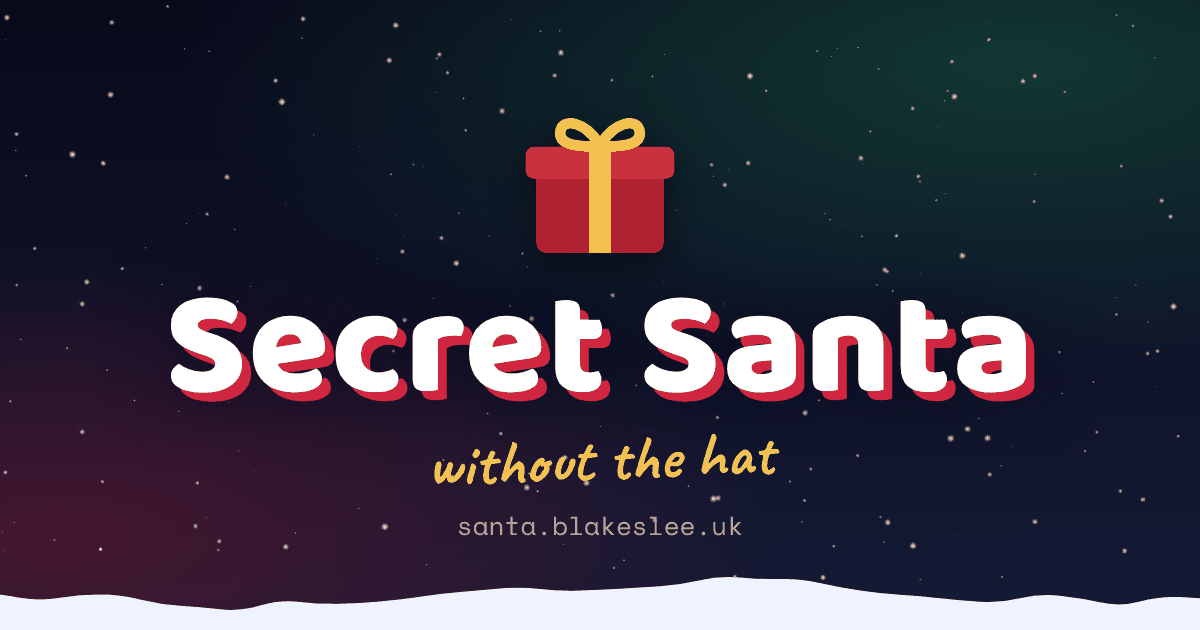
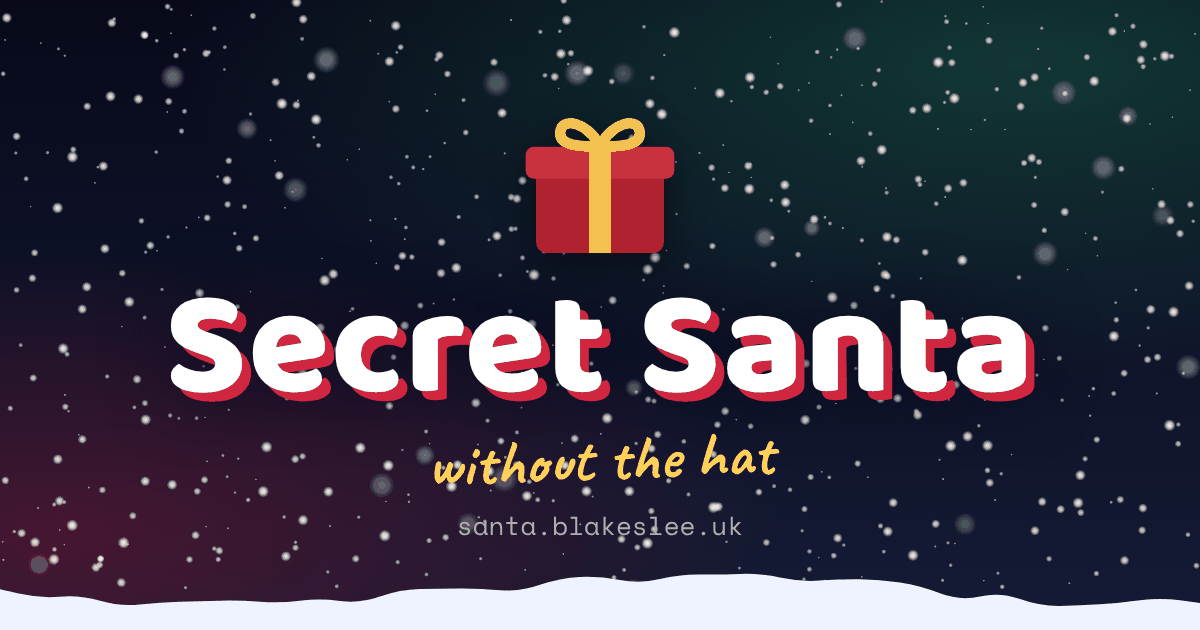
Heavier snow on the link-preview image
More flakes, bigger on the whole so they still show at thumbnail size, and a
few big, soft ones up close. Still 126 KB.

diff --git a/scripts/og-image.html b/scripts/og-image.html
@@ -140,18 +140,24 @@
 
     // falling: mostly small, far-off flakes, a few big, near ones (as snow.ts)
     const context = document.getElementById('snow').getContext('2d')
-    for (let i = 0; i < 260; i++) {
-        const r = 0.8 + random() ** 2.2 * 3.4
+    function flake(r, alpha) {
         const x = random() * 1200
-        const y = random() * 580
+        const y = random() * 590
         const glow = context.createRadialGradient(x, y, 0, x, y, r)
-        glow.addColorStop(0, `rgb(255 255 255 / ${0.4 + (r / 4.2) * 0.55})`)
+        glow.addColorStop(0, `rgb(255 255 255 / ${alpha})`)
+        glow.addColorStop(0.45, `rgb(255 255 255 / ${alpha * 0.8})`)
         glow.addColorStop(1, 'rgb(255 255 255 / 0)')
         context.fillStyle = glow
         context.beginPath()
         context.arc(x, y, r, 0, Math.PI * 2)
         context.fill()
     }
+    for (let i = 0; i < 650; i++) {
+        const r = 1.2 + random() ** 1.7 * 5
+        flake(r, 0.45 + (r / 6.2) * 0.5)
+    }
+    // and a few big, soft ones, right up close
+    for (let i = 0; i < 24; i++) flake(8 + random() * 7, 0.22 + random() * 0.18)
 
     // settled: a gently lumpy drift along the bottom
     const points = []
